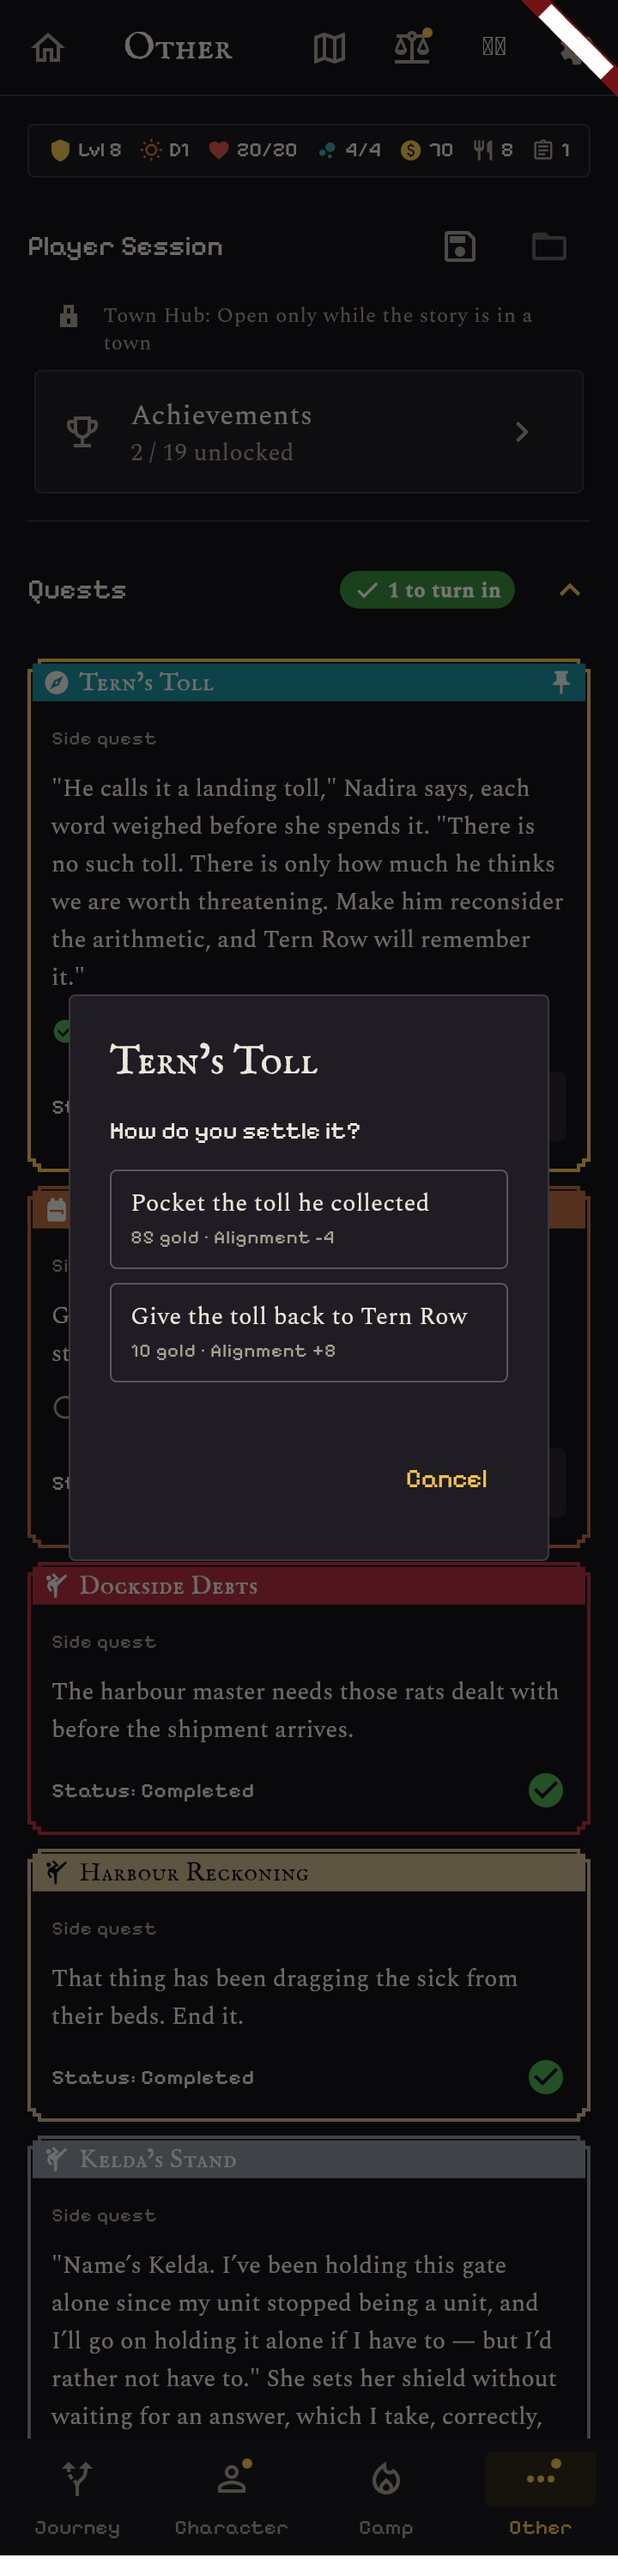
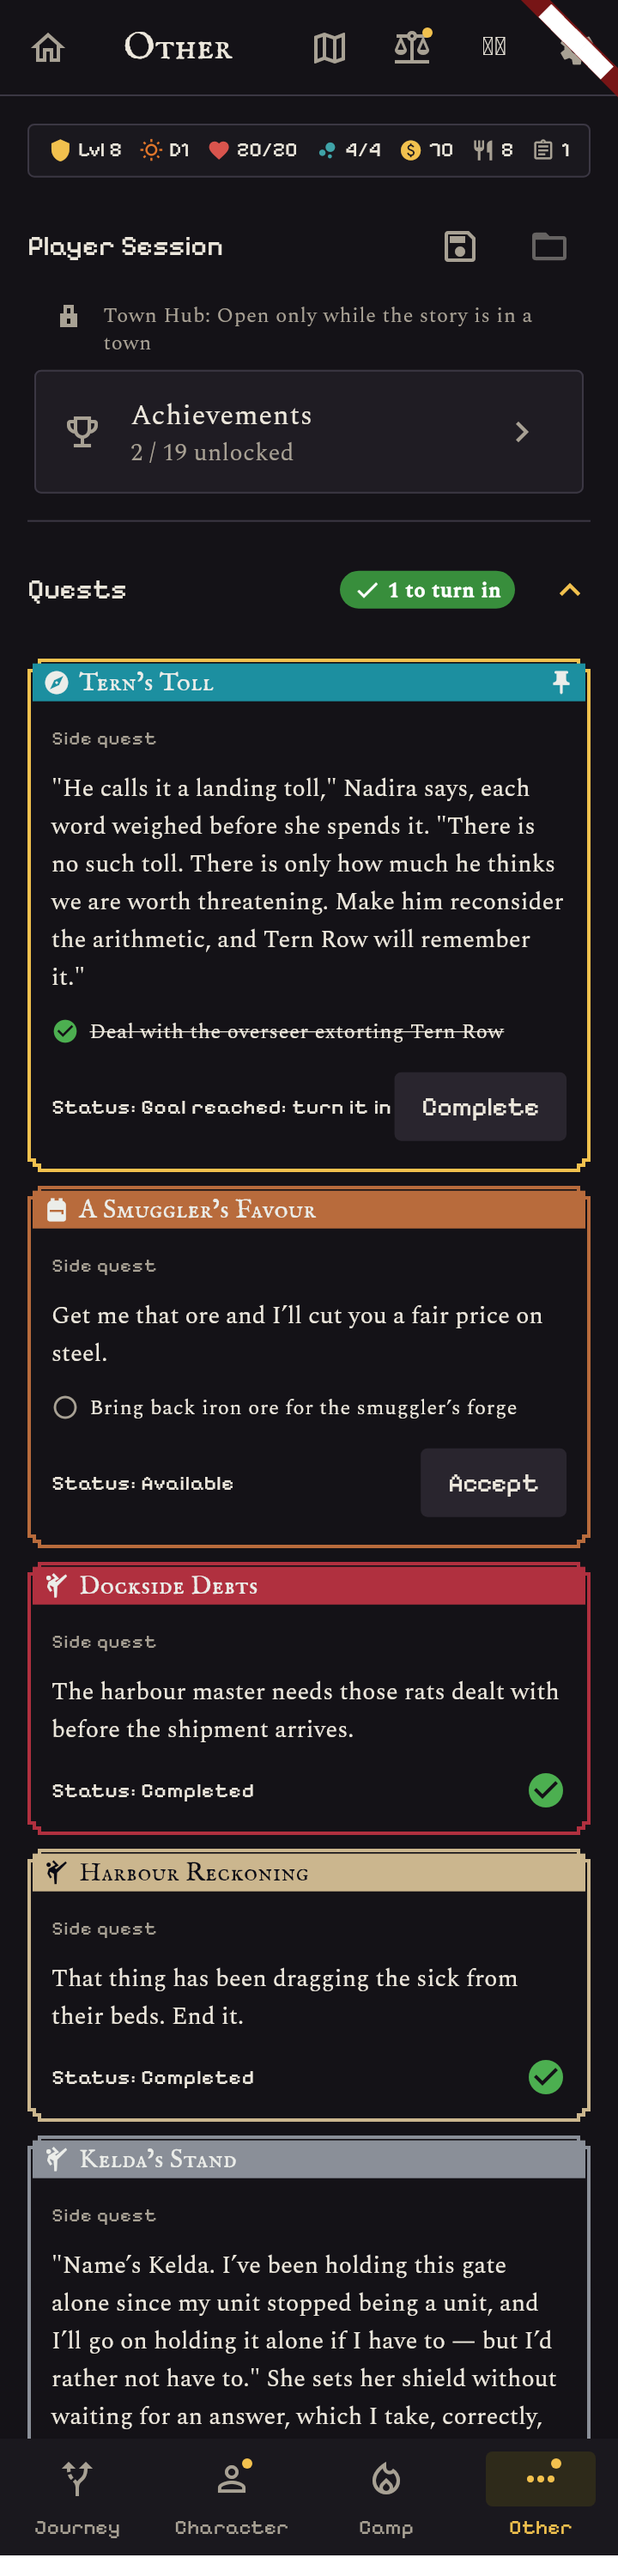
Quests: the turn-in choices wear their weight; clean list pictures
Claude-Session: https://claude.ai/code/session_019ETFw2Y7wpHSXWG5mmACty

diff --git a/lib/widgets/turn_in_choice_dialog.dart b/lib/widgets/turn_in_choice_dialog.dart
@@ -2,11 +2,14 @@ import 'package:flutter/material.dart';
 import 'package:flutter_riverpod/flutter_riverpod.dart';
 
 import '../data/politics_events.dart' show politicsHint;
+import '../data/story_plates.dart'
+    show ChoiceWeight, majorApprovalShift, questClanOf;
 import '../data/turn_in_choices.dart';
 import '../l10n/app_locale.dart';
 import '../l10n/app_strings.dart';
 import '../providers/clans_provider.dart';
 import '../theme/icon_sizes.dart';
+import 'story_panel.dart' show storyWeightFrame;
 import '../providers/combat_settings_provider.dart'
     show politicsHintsEnabledProvider;
 
@@ -39,6 +42,8 @@ Future<TurnInChoice?> showTurnInChoiceDialog(
     context: context,
     builder: (context) {
       final theme = Theme.of(context);
+      final clanFaction = clanData.factions[questClanOf(quest)];
+      final clanColor = clanFaction == null ? null : Color(clanFaction.color);
       return AlertDialog(
         title: Text(quest['questName']?.toString() ?? ''),
         content: SingleChildScrollView(
@@ -50,14 +55,11 @@ Future<TurnInChoice?> showTurnInChoiceDialog(
                   style: theme.textTheme.titleSmall),
               const SizedBox(height: 12),
               for (final (i, choice) in choices.indexed) ...[
-                OutlinedButton(
+                _tile(
                   key: Key('turn_in_choice_$i'),
-                  style: OutlinedButton.styleFrom(
-                    alignment: Alignment.centerLeft,
-                    padding: const EdgeInsets.symmetric(
-                        horizontal: 12, vertical: 10),
-                  ),
-                  onPressed: () => Navigator.of(context).pop(choice),
+                  weight: _weightOf(choice, questAlignment),
+                  clan: clanColor,
+                  onTap: () => Navigator.of(context).pop(choice),
                   child: Column(
                     crossAxisAlignment: CrossAxisAlignment.start,
                     children: [
@@ -109,5 +111,57 @@ Future<TurnInChoice?> showTurnInChoiceDialog(
         ],
       );
     },
+  );
+}
+
+/// How much a way of settling a quest weighs, as a story choice's does
+/// (story_plates.dart): a claim, a pledge or a big approval shift is major;
+/// alignment, politics or any approval is weighty; the rest plain.
+ChoiceWeight _weightOf(TurnInChoice choice, int questAlignment) {
+  final politics = choice.politics;
+  final shown = choice.hasPolitics && !politics!.hidden;
+  if ((shown && (politics.claim.isNotEmpty || politics.pledges.isNotEmpty)) ||
+      choice.approvalMods.values.any((v) => v.abs() >= majorApprovalShift)) {
+    return ChoiceWeight.major;
+  }
+  if (shown ||
+      choice.alignmentFor(questAlignment) != 0 ||
+      choice.approvalMods.values.any((v) => v != 0)) {
+    return ChoiceWeight.weighty;
+  }
+  return ChoiceWeight.plain;
+}
+
+/// One way to settle: a plain outlined button, or (weighty, major) the same
+/// card in the weight's frame.
+Widget _tile({
+  required Key key,
+  required ChoiceWeight weight,
+  required Color? clan,
+  required VoidCallback onTap,
+  required Widget child,
+}) {
+  if (weight == ChoiceWeight.plain) {
+    return OutlinedButton(
+      key: key,
+      style: OutlinedButton.styleFrom(
+        alignment: Alignment.centerLeft,
+        padding: const EdgeInsets.symmetric(horizontal: 12, vertical: 10),
+      ),
+      onPressed: onTap,
+      child: child,
+    );
+  }
+  return storyWeightFrame(
+    weight: weight,
+    clan: clan,
+    child: InkWell(
+      key: key,
+      onTap: onTap,
+      child: Padding(
+        padding: const EdgeInsets.symmetric(horizontal: 12, vertical: 10),
+        child: Align(alignment: Alignment.centerLeft, child: child),
+      ),
+    ),
   );
 }

diff --git a/test/ux_quest_plates_shots_test.dart b/test/ux_quest_plates_shots_test.dart
@@ -83,21 +83,39 @@ void main() {
       }
       await settleApp(tester);
       final plate = find.byKey(const ValueKey('quest_plate_q_ch2_terns_toll'));
+      // The header row only: the middle of an open tile is a quest card.
+      final header = tester.getTopLeft(find.byType(ExpansionTile).first) +
+          const Offset(60, 30);
       for (var k = 0; k < 3 && plate.evaluate().isEmpty; k++) {
-        await tester.tap(find.byType(ExpansionTile).first);
-        await settleApp(tester);
+        await tester.tapAt(header);
+        await tester.pump(const Duration(seconds: 2));
       }
+      expect(plate, findsOneWidget);
       for (var k = 0; k < 10; k++) {
         await tester.pump(const Duration(seconds: 1));
       }
-      await tester.runAsync(() async {
-        final render = boundary.currentContext!.findRenderObject()
-            as RenderRepaintBoundary;
-        final image = await render.toImage(pixelRatio: 2);
-        final bytes = await image.toByteData(format: ui.ImageByteFormat.png);
-        File('$shots/quests-${dark ? 'dark' : 'light'}.png')
-            .writeAsBytesSync(bytes!.buffer.asUint8List());
-      });
+      final theme = dark ? 'dark' : 'light';
+      Future<void> save(String name) => tester.runAsync(() async {
+            final render = boundary.currentContext!.findRenderObject()
+                as RenderRepaintBoundary;
+            final image = await render.toImage(pixelRatio: 2);
+            final bytes =
+                await image.toByteData(format: ui.ImageByteFormat.png);
+            File('$shots/$name-$theme.png')
+                .writeAsBytesSync(bytes!.buffer.asUint8List());
+          });
+      // The list at rest: no dialog over it.
+      if (find.text('Cancel').evaluate().isNotEmpty) {
+        await tester.tap(find.text('Cancel'));
+        await settleApp(tester);
+      }
+      expect(find.text('Cancel'), findsNothing);
+      await save('quests');
+      // Turning Tern's Toll in asks how it is settled: the choices weigh.
+      await tester
+          .tap(find.descendant(of: plate, matching: find.text('Complete')));
+      await settleApp(tester);
+      await save('quests-turn-in');
     }
   });
 }

diff --git a/CHANGELOG.md b/CHANGELOG.md
@@ -9,7 +9,7 @@ History before v1.23.1 predates per-PR versioning in this repository and
 isn't reconstructable from git history alone.
 
 ## [1.984.0+1020]
-- Quests: each quest sits on a nameplate in its clan's colour (the pin in the band, the followed quest outlined) and its story reads in the reading font, like the other story screens.
+- Quests: each quest sits on a nameplate in its clan's colour (the pin in the band, the followed quest outlined) and its story reads in the reading font, like the other story screens. The turn-in dialog's choices weigh like the Journey choice cards (a quiet frame for alignment or politics, the rich metal for a claim, a pledge or a big approval shift).
 
 ## [1.983.0+1019]
 
